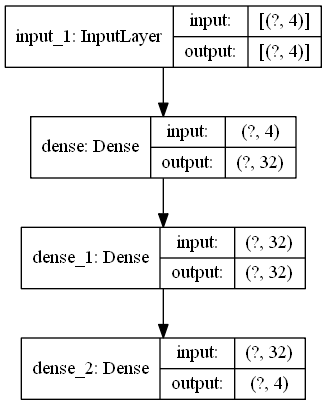
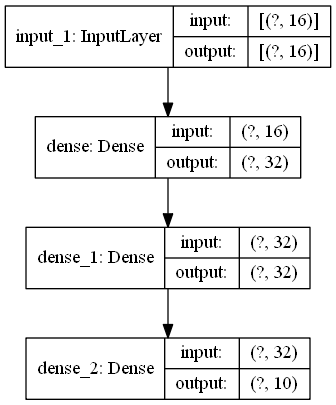
Redesign Model Structure

diff --git a/DLDemo.py b/DLDemo.py
@@ -4,10 +4,41 @@ from tensorflow.keras.layers import Dense, Input
 
 
 def build_model():
-    input_layer = Input(shape=(4,))
+    input_dims = 2
+    # hp & frags: 2 params
+    input_dims += 1
+    # ranged enemies count: 1 param
+    input_dims += 1
+    # ranged enemies ave distance/range radius: 1 param
+    input_dims += 1
+    # nearest enemies health/full health: 1 param
+    input_dims += 3
+    # nearest enemies direction: 3 params
+    input_dims += 1
+    # second nearest enemies health/full health: 1 param
+    input_dims += 3
+    # second nearest enemies direction: 3 params
+    input_dims += 1
+    # third nearest enemies health/full health: 1 param
+    input_dims += 3
+    # third nearest enemies direction: 3 params
+    input_layer = Input(shape=(input_dims,))
     D1 = Dense(32, activation='relu')
     D2 = Dense(32, activation='relu')
-    O = Dense(4, activation='relu')
+    output_dims = 1
+    # move or not: 1 param
+    output_dims += 3
+    # move to (direction): 3 params
+    output_dims += 1
+    # shoot or not: 1 param
+    output_dims += 3
+    # face to (direction): 3 params
+    output_dims += 1
+    # jump or not: 1 param
+    output_dims += 1
+    # reload or not: 1 param
+
+    O = Dense(output_dims, activation='relu')
     x = D1(input_layer)
     x = D2(x)
     x = O(x)
